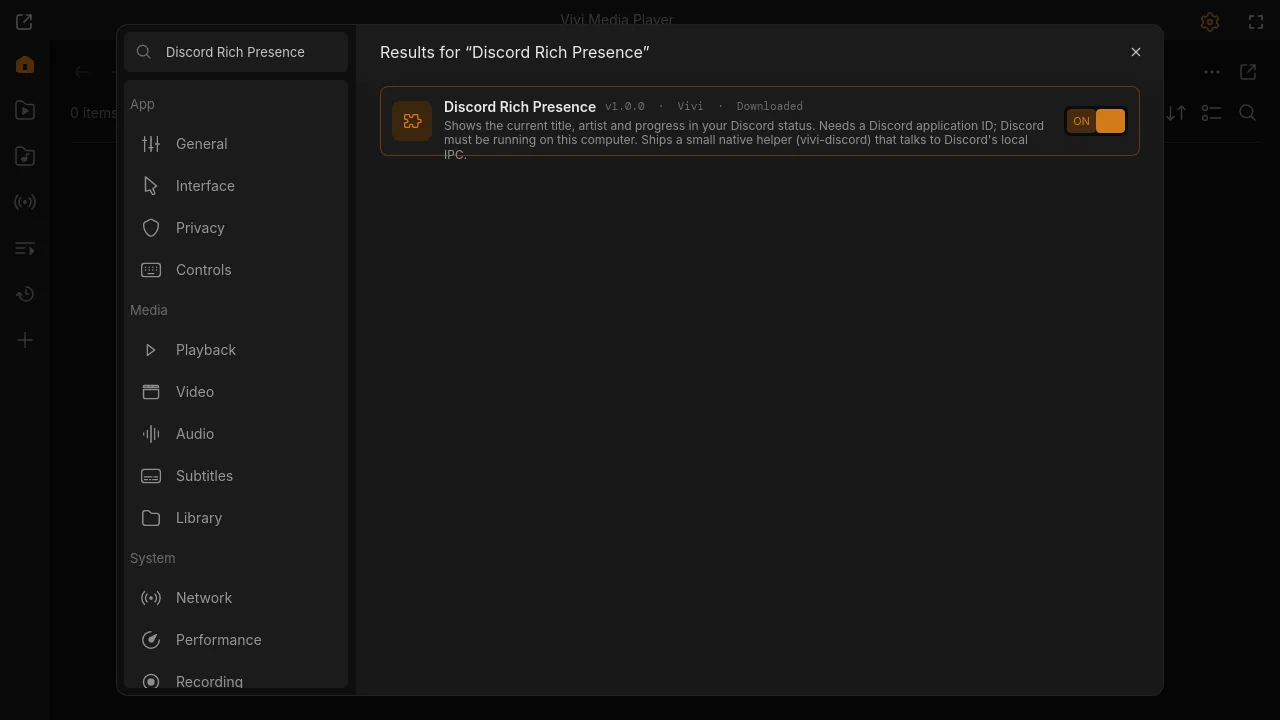
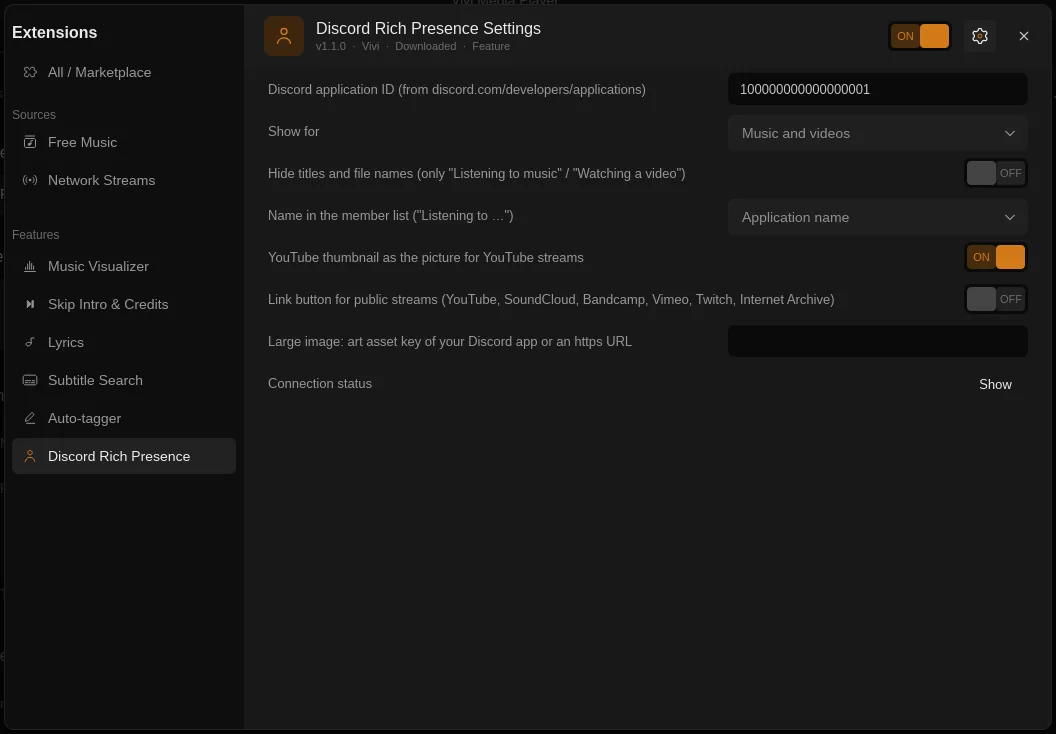
Discord Rich Presence 1.1.0: one helper at a time, clean status toast, live-test fixes; screenshots
Found in the live test on the laptop (isolated Vivi 733f13c, fake Discord IPC socket):
- Two settings changed in a row left two vivi-discord helpers running (the abort of the
  first one lost the race), each with its own Discord connection, e.g. one still showing
  titles after "Hide titles" was turned on. The script now hands each helper a token in
  user-data/discord/helper; a helper whose token is gone exits.
- Connection status toast showed the text in JSON quotes (mp.get_property formats a
  user-data string); now get_property_native.
- While a web stream opens (no time-pos yet) the helper kept the start time moving and
  resent every 2 s, showing the URL's host; it now keeps the previous status for up to
  10 s and never sends a timer while loading.
- Errors in plain words ("Discord did not answer" for a hanging Discord, "closed the
  connection or is not running" for a stale socket).

Settings titles shortened so they are not elided in the Extensions window. New
screenshots discord-settings (Extensions → Discord Rich Presence) and discord-status
(status toast while a synthetic test tone plays), png + webp.

diff --git a/helpers/src/discord.rs b/helpers/src/discord.rs
@@ -26,6 +26,8 @@ pub struct Playing {
     pub pos: f64,
     pub dur: f64,
     pub speed: f64,
+    /// Opened but not started yet (no `time-pos`): no timer, as the start would move.
+    pub loading: bool,
 }
 
 /// Plugin settings that shape the presence.
@@ -86,7 +88,7 @@ pub fn presence(p: &Playing, o: &Opts, now_ms: i64) -> Option<Presence> {
         (true, false) => format!("{state} · Paused"),
         _ => state,
     };
-    let (start, end) = if p.paused {
+    let (start, end) = if p.paused || p.loading {
         (None, None)
     } else {
         // Real time, so 1.5× playback ends earlier and the timer does not drift.
@@ -455,6 +457,18 @@ fn read_frame(s: &mut dyn Stream) -> io::Result<(u32, Value)> {
     Ok((op, serde_json::from_slice(&b).unwrap_or(Value::Null)))
 }
 
+/// Plain words for the errors people see in *Connection status*.
+fn friendly(e: io::Error) -> io::Error {
+    use io::ErrorKind::*;
+    match e.kind() {
+        WouldBlock | TimedOut => io::Error::new(TimedOut, "Discord did not answer"),
+        ConnectionRefused | ConnectionReset | BrokenPipe | UnexpectedEof => {
+            io::Error::new(e.kind(), "Discord closed the connection or is not running")
+        }
+        _ => e,
+    }
+}
+
 impl Client {
     /// Connect and handshake with the first reachable Discord.
     pub fn connect(app_id: &str) -> io::Result<Self> {
@@ -463,7 +477,7 @@ impl Client {
             match open(&p).and_then(|s| Self::handshake(s, app_id)) {
                 Ok(c) => return Ok(c),
                 Err(e) if e.kind() == io::ErrorKind::NotFound => {}
-                Err(e) => last = e,
+                Err(e) => last = friendly(e),
             }
         }
         Err(last)
@@ -480,6 +494,9 @@ impl Client {
         Ok(Self { s, nonce: 0 })
     }
     pub fn set(&mut self, p: Option<&Presence>) -> io::Result<()> {
+        self.send(p).map_err(friendly)
+    }
+    fn send(&mut self, p: Option<&Presence>) -> io::Result<()> {
         self.nonce += 1;
         let f = json!({
             "cmd": "SET_ACTIVITY",
@@ -638,6 +655,16 @@ mod tests {
             .activity()
             .get("status_display_type")
             .is_none());
+    }
+
+    #[test]
+    fn loading_has_no_timer() {
+        let mut s = song();
+        s.loading = true;
+        let a = presence(&s, &Opts::default(), 1_000).unwrap();
+        let b = presence(&s, &Opts::default(), 3_000).unwrap();
+        assert_eq!(a.start, None);
+        assert!(a.same(&b), "no resend while the start time would move");
     }
 
     #[test]

diff --git a/helpers/src/bin/vivi-discord.rs b/helpers/src/bin/vivi-discord.rs
@@ -1,7 +1,11 @@
 //! Discord Rich Presence helper of the `discord` plugin.
 //!
 //! `vivi-discord --ipc <mpv socket> --app-id <id> [--hide-names] [--image <key or URL>]
-//!  [--show all|music] [--art yes|no] [--button yes|no] [--display app|title|artist]`
+//!  [--show all|music] [--art yes|no] [--button yes|no] [--display app|title|artist]
+//!  [--token <t>]`
+//!
+//! With `--token` the helper exits as soon as `user-data/discord/helper` no longer holds
+//! that token (the script started a newer helper or stopped).
 //!
 //! Polls mpv every second; sends the activity when the title, picture, pause state or
 //! position (seek) changes, at most 5 updates per 20 s (Discord's limit). Retries Discord
@@ -40,6 +44,7 @@ fn playing(m: &mut Mpv) -> io::Result<Playing> {
         image_only: picture && !cover && !has_audio,
         paused: m.get_bool("pause")?,
         eof: m.get_bool("eof-reached")?,
+        loading: m.get("time-pos")?.is_none(),
         pos: m.get_f64("time-pos")?,
         dur: m.get_f64("duration")?,
         speed: m.get_f64("speed")?,
@@ -70,6 +75,8 @@ fn main() {
         .map(|s| s.trim().to_string())
         .unwrap_or_default();
     let o = opts(&a);
+    // Set by the plugin script for the helper that should run (`user-data/discord/helper`).
+    let token = a.get("token").cloned();
     let mut m = match Mpv::connect(&ipc) {
         Ok(m) => m,
         Err(e) => {
@@ -93,8 +100,24 @@ fn main() {
     let mut sent: Option<Option<Presence>> = None;
     let mut next_try = Instant::now();
     let mut limit = Limiter::default();
+    let mut waited = 0;
     // Ends when mpv quits (IPC error).
     while let Ok(p) = playing(&mut m) {
+        // Replaced by a newer helper (a settings change) or the plugin stopped: leave.
+        if let Some(t) = &token {
+            match m.get_str("user-data/discord/helper") {
+                Ok(cur) if cur == *t => {}
+                _ => break,
+            }
+        }
+        // While a file opens (a web stream takes seconds) keep the last status, so it
+        // does not flash the URL's host; a file that does not start in 10 s is shown.
+        if p.loading && waited < 10 && sent.is_some() {
+            waited += 1;
+            std::thread::sleep(Duration::from_secs(1));
+            continue;
+        }
+        waited = if p.loading { waited } else { 0 };
         let now = now_ms();
         let cur = presence(&p, &o, now);
         let same = match (&sent, &cur) {

diff --git a/plugins/discord/README.md b/plugins/discord/README.md
@@ -7,6 +7,8 @@ was built into Vivi up to 0.9.0, a downloadable plugin with a native helper sinc
 
 ![Settings](../../docs/screenshots/plugins/discord-settings.png)
 
+![Connection status as a Vivi toast while music plays (synthetic test tone)](../../docs/screenshots/plugins/discord-status.png)
+
 ## Setup
 
 1. Create an application at <https://discord.com/developers/applications>. Its name is
@@ -40,7 +42,7 @@ button. Discord then shows this to people who can see your status.
   or host only, without user name, password, port, query string (e.g. `api_key=`) or
   fragment.
 * Nothing is shown when nothing plays, when a file has finished, or for a still image.
-* The helper logs connection states only (no titles, paths or IDs besides mpv's socket).
+* The helper logs connection states only (no titles or paths).
 
 ## How it works
 
@@ -50,5 +52,8 @@ The helper polls mpv once a second over IPC and sends `SET_ACTIVITY` frames to D
 local IPC socket (`discord-ipc-0`…`9` in `$XDG_RUNTIME_DIR`, `$TMPDIR` or `/tmp`, also
 under `app/com.discordapp.Discord/`, `snap.discord/` and Vesktop's Flatpak folder;
 `\\.\pipe\discord-ipc-N` on Windows), at most 5 updates per 20 s (Discord's own limit),
-retrying every 15 s while Discord is closed. The timer follows the playback speed.
+retrying every 15 s while Discord is closed (5 s after a lost connection). The timer
+follows the playback speed. Each helper gets a token (`user-data/discord/helper`) and
+exits when the script hands it to a newer helper, so a settings change never leaves two
+running.
 Flatpak Vivi has access to `xdg-run/discord-ipc-0` and `xdg-run/app/com.discordapp.Discord`.
